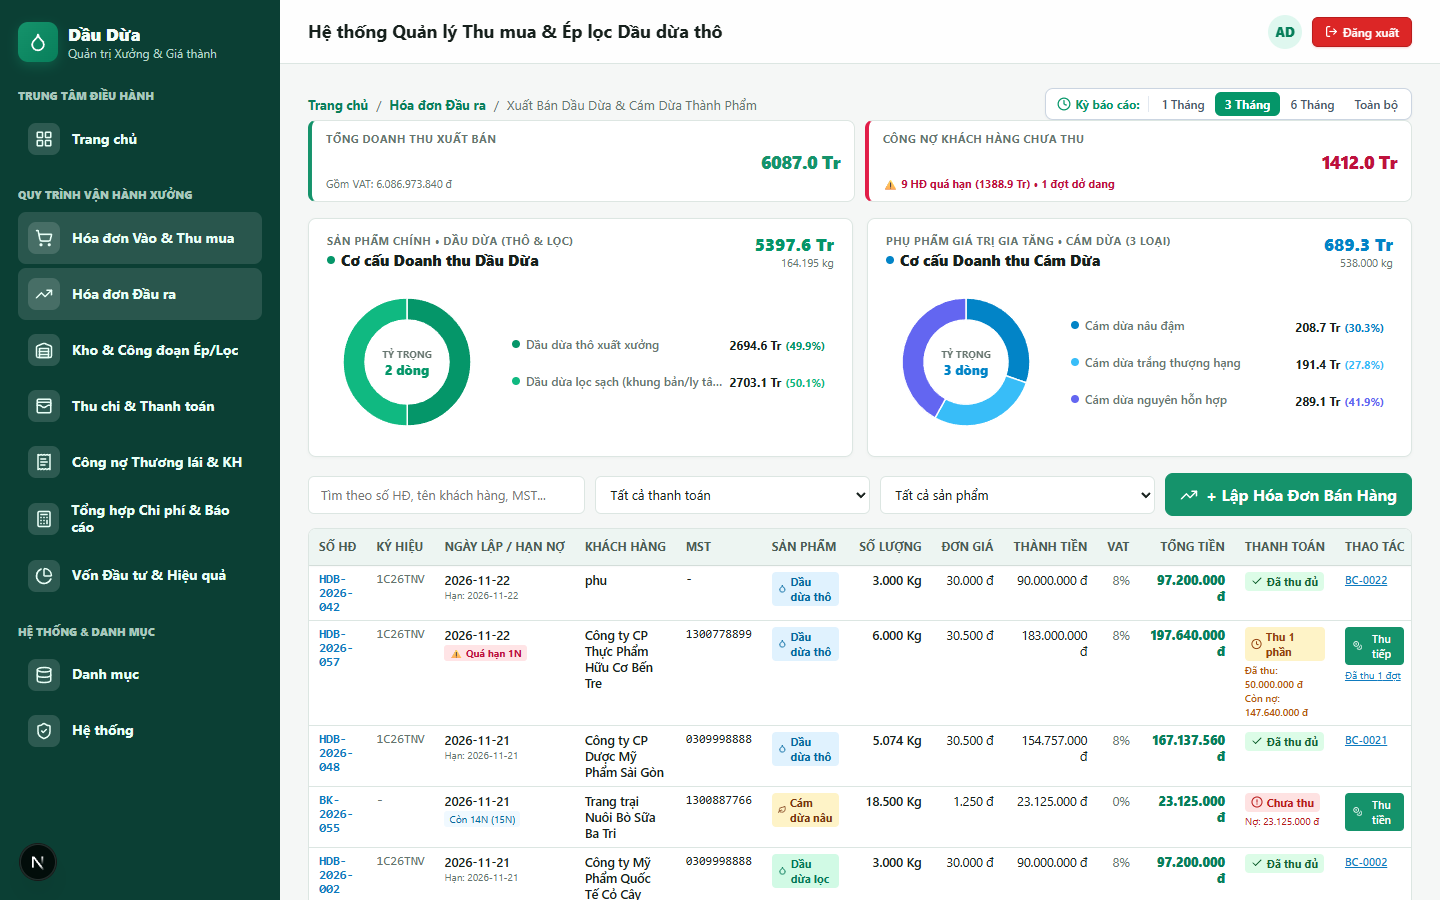
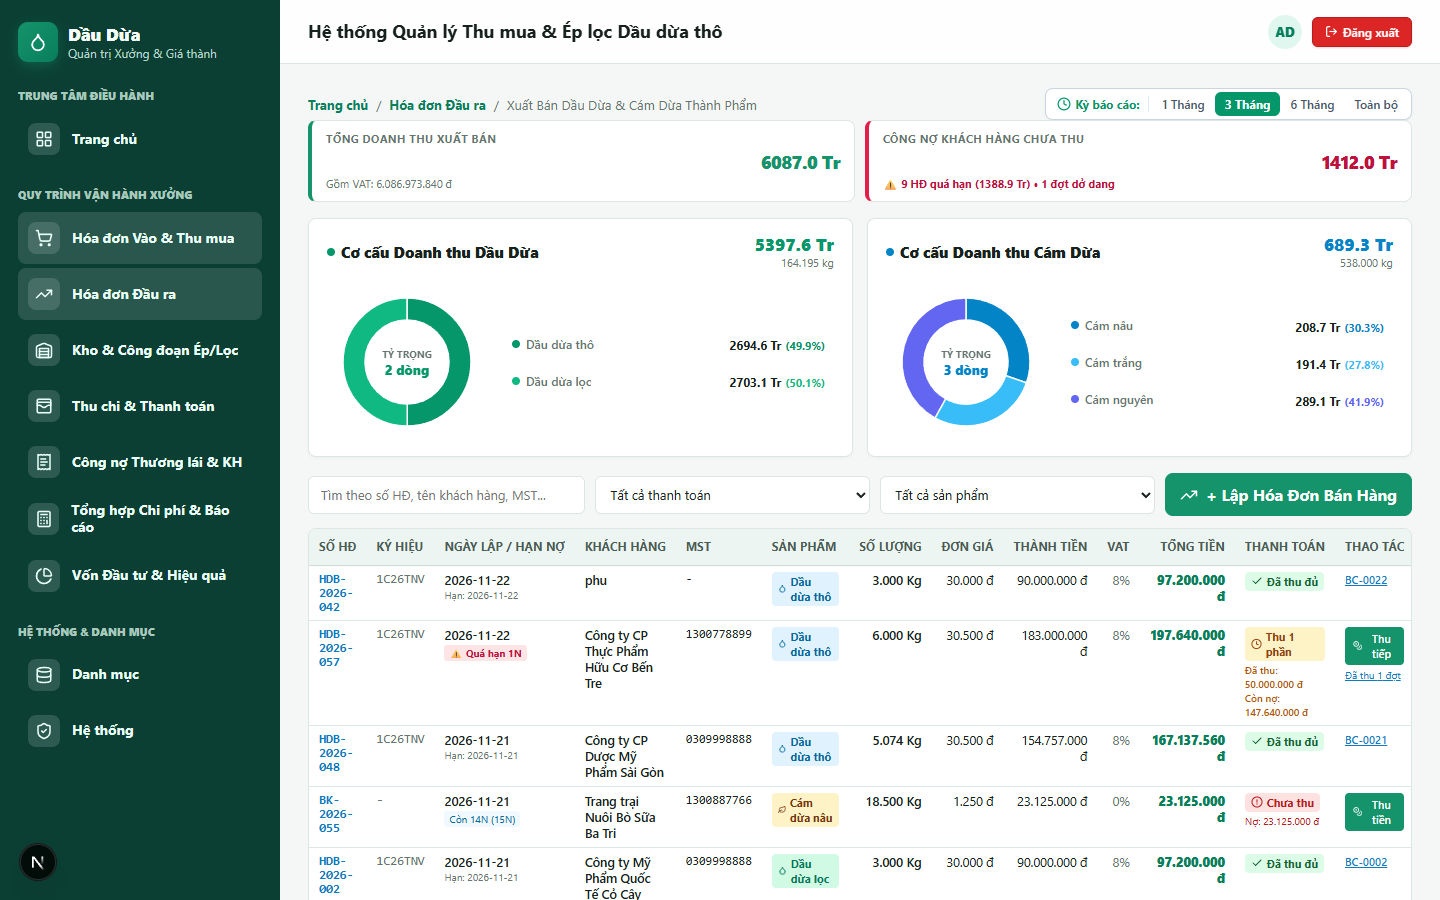
style(sales): simplify donut chart headers and shorten meal labels to Cám nâu, Cám trắng, Cám nguyên

diff --git a/apps/web/components/two-sales-donut-charts.tsx b/apps/web/components/two-sales-donut-charts.tsx
@@ -11,7 +11,7 @@ interface DonutSlice {
 
 interface MiniDonutProps {
   title: string;
-  subtitle: string;
+  subtitle?: string;
   totalAmount: number;
   totalQuantity: number;
   unit: string;
@@ -91,12 +91,14 @@ const SingleDonut: React.FC<MiniDonutProps> = ({
       }}
     >
       {/* Header */}
-      <div style={{ display: "flex", justifyContent: "space-between", alignItems: "flex-start" }}>
+      <div style={{ display: "flex", justifyContent: "space-between", alignItems: "center" }}>
         <div>
-          <div style={{ fontSize: "11px", fontWeight: 700, color: "var(--muted)", textTransform: "uppercase", letterSpacing: "0.04em" }}>
-            {subtitle}
-          </div>
-          <h4 style={{ margin: "2px 0 0", fontSize: "15px", fontWeight: 800, color: "var(--ink)", display: "flex", alignItems: "center", gap: 6 }}>
+          {subtitle && (
+            <div style={{ fontSize: "11px", fontWeight: 700, color: "var(--muted)", textTransform: "uppercase", letterSpacing: "0.04em" }}>
+              {subtitle}
+            </div>
+          )}
+          <h4 style={{ margin: 0, fontSize: "15px", fontWeight: 800, color: "var(--ink)", display: "flex", alignItems: "center", gap: 6 }}>
             <span style={{ width: 8, height: 8, borderRadius: "50%", backgroundColor: themeColor }} />
             {title}
           </h4>
@@ -264,7 +266,7 @@ export const TwoSalesDonutCharts: React.FC<TwoDonutChartsProps> = ({
 }) => {
   const oilSlices: DonutSlice[] = [
     {
-      name: "Dầu dừa thô xuất xưởng",
+      name: "Dầu dừa thô",
       amount: crudeOilAmount,
       quantity: crudeOilQty,
       unit: "kg",
@@ -272,7 +274,7 @@ export const TwoSalesDonutCharts: React.FC<TwoDonutChartsProps> = ({
       filterValue: "CRUDE_OIL"
     },
     {
-      name: "Dầu dừa lọc sạch (khung bản/ly tâm)",
+      name: "Dầu dừa lọc",
       amount: filteredOilAmount,
       quantity: filteredOilQty,
       unit: "kg",
@@ -283,7 +285,7 @@ export const TwoSalesDonutCharts: React.FC<TwoDonutChartsProps> = ({
 
   const mealSlices: DonutSlice[] = [
     {
-      name: "Cám dừa nâu đậm",
+      name: "Cám nâu",
       amount: mealBrownAmount,
       quantity: mealBrownQty,
       unit: "kg",
@@ -291,7 +293,7 @@ export const TwoSalesDonutCharts: React.FC<TwoDonutChartsProps> = ({
       filterValue: "MEAL_BROWN"
     },
     {
-      name: "Cám dừa trắng thượng hạng",
+      name: "Cám trắng",
       amount: mealWhiteAmount,
       quantity: mealWhiteQty,
       unit: "kg",
@@ -299,7 +301,7 @@ export const TwoSalesDonutCharts: React.FC<TwoDonutChartsProps> = ({
       filterValue: "MEAL_WHITE"
     },
     {
-      name: "Cám dừa nguyên hỗn hợp",
+      name: "Cám nguyên",
       amount: mealWholeAmount,
       quantity: mealWholeQty,
       unit: "kg",
@@ -317,10 +319,9 @@ export const TwoSalesDonutCharts: React.FC<TwoDonutChartsProps> = ({
         marginBottom: "16px"
       }}
     >
-      {/* CHART 1: DOANH THU DẦU DỪA (THÔ & LỌC) */}
+      {/* CHART 1: DOANH THU DẦU DỪA */}
       <SingleDonut
         title="Cơ cấu Doanh thu Dầu Dừa"
-        subtitle="Sản phẩm chính • Dầu Dừa (Thô & Lọc)"
         totalAmount={oilRevenue}
         totalQuantity={oilQuantity}
         unit="kg"
@@ -329,10 +330,9 @@ export const TwoSalesDonutCharts: React.FC<TwoDonutChartsProps> = ({
         onFilterProduct={onFilterProduct}
       />
 
-      {/* CHART 2: DOANH THU CÁM DỪA (3 LOẠI) */}
+      {/* CHART 2: DOANH THU CÁM DỪA */}
       <SingleDonut
         title="Cơ cấu Doanh thu Cám Dừa"
-        subtitle="Phụ phẩm giá trị gia tăng • Cám Dừa (3 loại)"
         totalAmount={mealRevenue}
         totalQuantity={mealQuantity}
         unit="kg"
